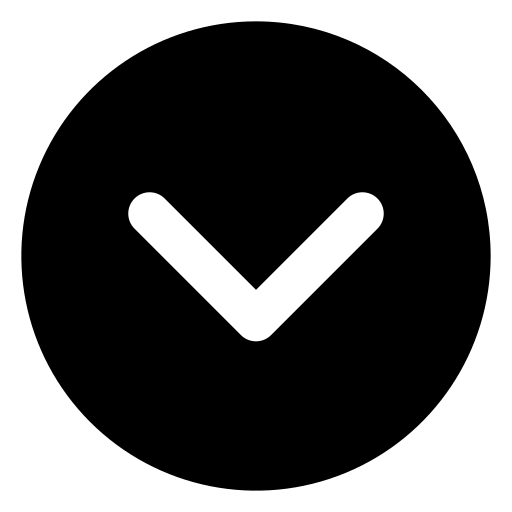
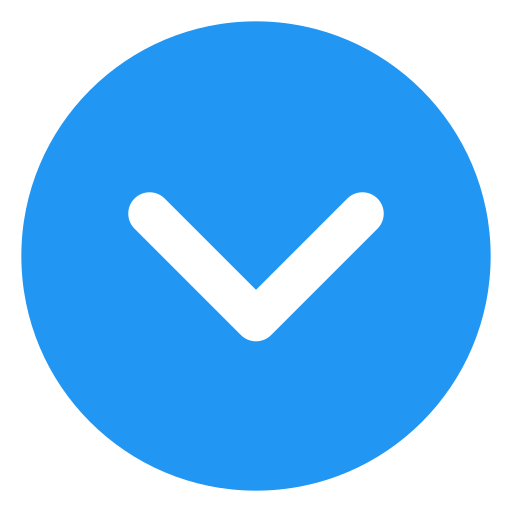
changed design colors and cleaned code

diff --git a/src/components/global/ThreeBtn.js b/src/components/global/ThreeBtn.js
@@ -18,12 +18,9 @@ const ThreeBtn = ({
 
   return (
     <View
-      style={[
-        tw`w-${
-          Dimensions.get('screen').width / 4.9
-        } h-14 mx-auto flex-row rounded-xl p-1`,
-        {backgroundColor: '#323054'},
-      ]}>
+      style={tw`w-${
+        Dimensions.get('screen').width / 4.9
+      } h-14 mx-auto flex-row rounded-xl p-1 bg-[#323054]`}>
       <TouchableOpacity
         onPress={() => {
           firstBtnNavigation ? firstBtnNavigation() : null;
@@ -32,8 +29,7 @@ const ThreeBtn = ({
           setIsFifty(false);
         }}
         style={tw`flex-1 rounded-xl ${isAll ? 'bg-white' : null}`}>
-        <Text
-          style={tw`m-auto  ${isAll ? 'text-black' : 'text-white'} text-lg`}>
+        <Text style={tw`m-auto ${isAll ? 'text-black' : 'text-white'} text-lg`}>
           {firstBtnName}
         </Text>
       </TouchableOpacity>
@@ -58,7 +54,7 @@ const ThreeBtn = ({
           setIsSale(false);
           setIsFifty(true);
         }}
-        style={tw`flex-1 rounded-cx   l ${isFifty ? 'bg-white' : null}`}>
+        style={tw`flex-1 rounded-xl ${isFifty ? 'bg-white' : null}`}>
         {fourth ? (
           thirdBtnName
         ) : (

diff --git a/src/components/global/DatePickerCustom.js b/src/components/global/DatePickerCustom.js
@@ -15,7 +15,7 @@ const DatePickerCustom = ({setNeedDate, func, text}) => {
         {text || '15/04/2022'}
       </Text>
       <View
-        style={tw`bg-black h-full w-5/12 rounded-tr-2xl rounded-br-2xl items-center justify-center`}>
+        style={tw`bg-[#323054] h-full w-5/12 rounded-tr-2xl rounded-br-2xl items-center justify-center`}>
         <Image
           source={require('../../../assets/calendar.png')}
           resizeMode="contain"

diff --git a/src/components/global/DoubleBtn.js b/src/components/global/DoubleBtn.js
@@ -15,10 +15,7 @@ const DoubleBtn = ({
   return (
     <View style={tw`flex-col justify-around`}>
       <View
-        style={[
-          tw`w-5/6 h-12 mx-auto flex-row border rounded-xl p-1`,
-          {backgroundColor: '#242424'},
-        ]}>
+        style={tw`w-5/6 h-12 mx-auto flex-row border rounded-xl p-1 bg-[#323054]`}>
         <TouchableOpacity
           onPress={() => {
             setIsAll(true);

diff --git a/src/components/vendor_Manager/sale/FiftySale.js b/src/components/vendor_Manager/sale/FiftySale.js
@@ -168,7 +168,7 @@ const FiftySale = () => {
       <TouchableOpacity
         activeOpacity={0.7}
         onPress={sendSimpleSale}
-        style={tw`w-5/12 h-15 bg-[#242424] mx-auto my-2 rounded-full`}>
+        style={tw`w-5/12 h-15 bg-[#323054] mx-auto my-2 rounded-xl`}>
         <Text style={tw`text-white text-xl m-auto`}>Saqlash</Text>
       </TouchableOpacity>
     </ScrollView>

diff --git a/src/components/vendor_Manager/order/OrderDress.js b/src/components/vendor_Manager/order/OrderDress.js
@@ -331,7 +331,7 @@ const OrderDress = () => {
       <TouchableOpacity
         activeOpacity={0.7}
         onPress={sendOrder}
-        style={tw`w-5/12 h-15 bg-[#242424] mx-auto my-2 rounded-full`}>
+        style={tw`w-5/12 h-15 bg-[#323054] mx-auto my-2 rounded-xl`}>
         <Text style={tw`text-white text-xl m-auto`}>Saqlash</Text>
       </TouchableOpacity>
     </ScrollView>

diff --git a/src/config/apiUrl.js b/src/config/apiUrl.js
@@ -1,4 +1,4 @@
-// export const baseUrl = 'http://192.168.0.164:8000';
-export const baseUrl = 'https://mme-crm.1sonia.uz';
+export const baseUrl = 'http://192.168.0.164:8000';
+// export const baseUrl = 'https://mme-crm.1sonia.uz';
 
 export const mainUrl = baseUrl + '/';

diff --git a/src/components/vendor_Manager/modals/RegisterSalon.js b/src/components/vendor_Manager/modals/RegisterSalon.js
@@ -20,7 +20,7 @@ const RegisterSalon = ({setSalonId}) => {
       url: `${mainUrl}lastoria/salon/`,
       method: 'GET',
       headers: {
-        Authorization: 'token ' + token,
+        Authorization: `token ${token}`,
       },
     })
       .then(res => {
